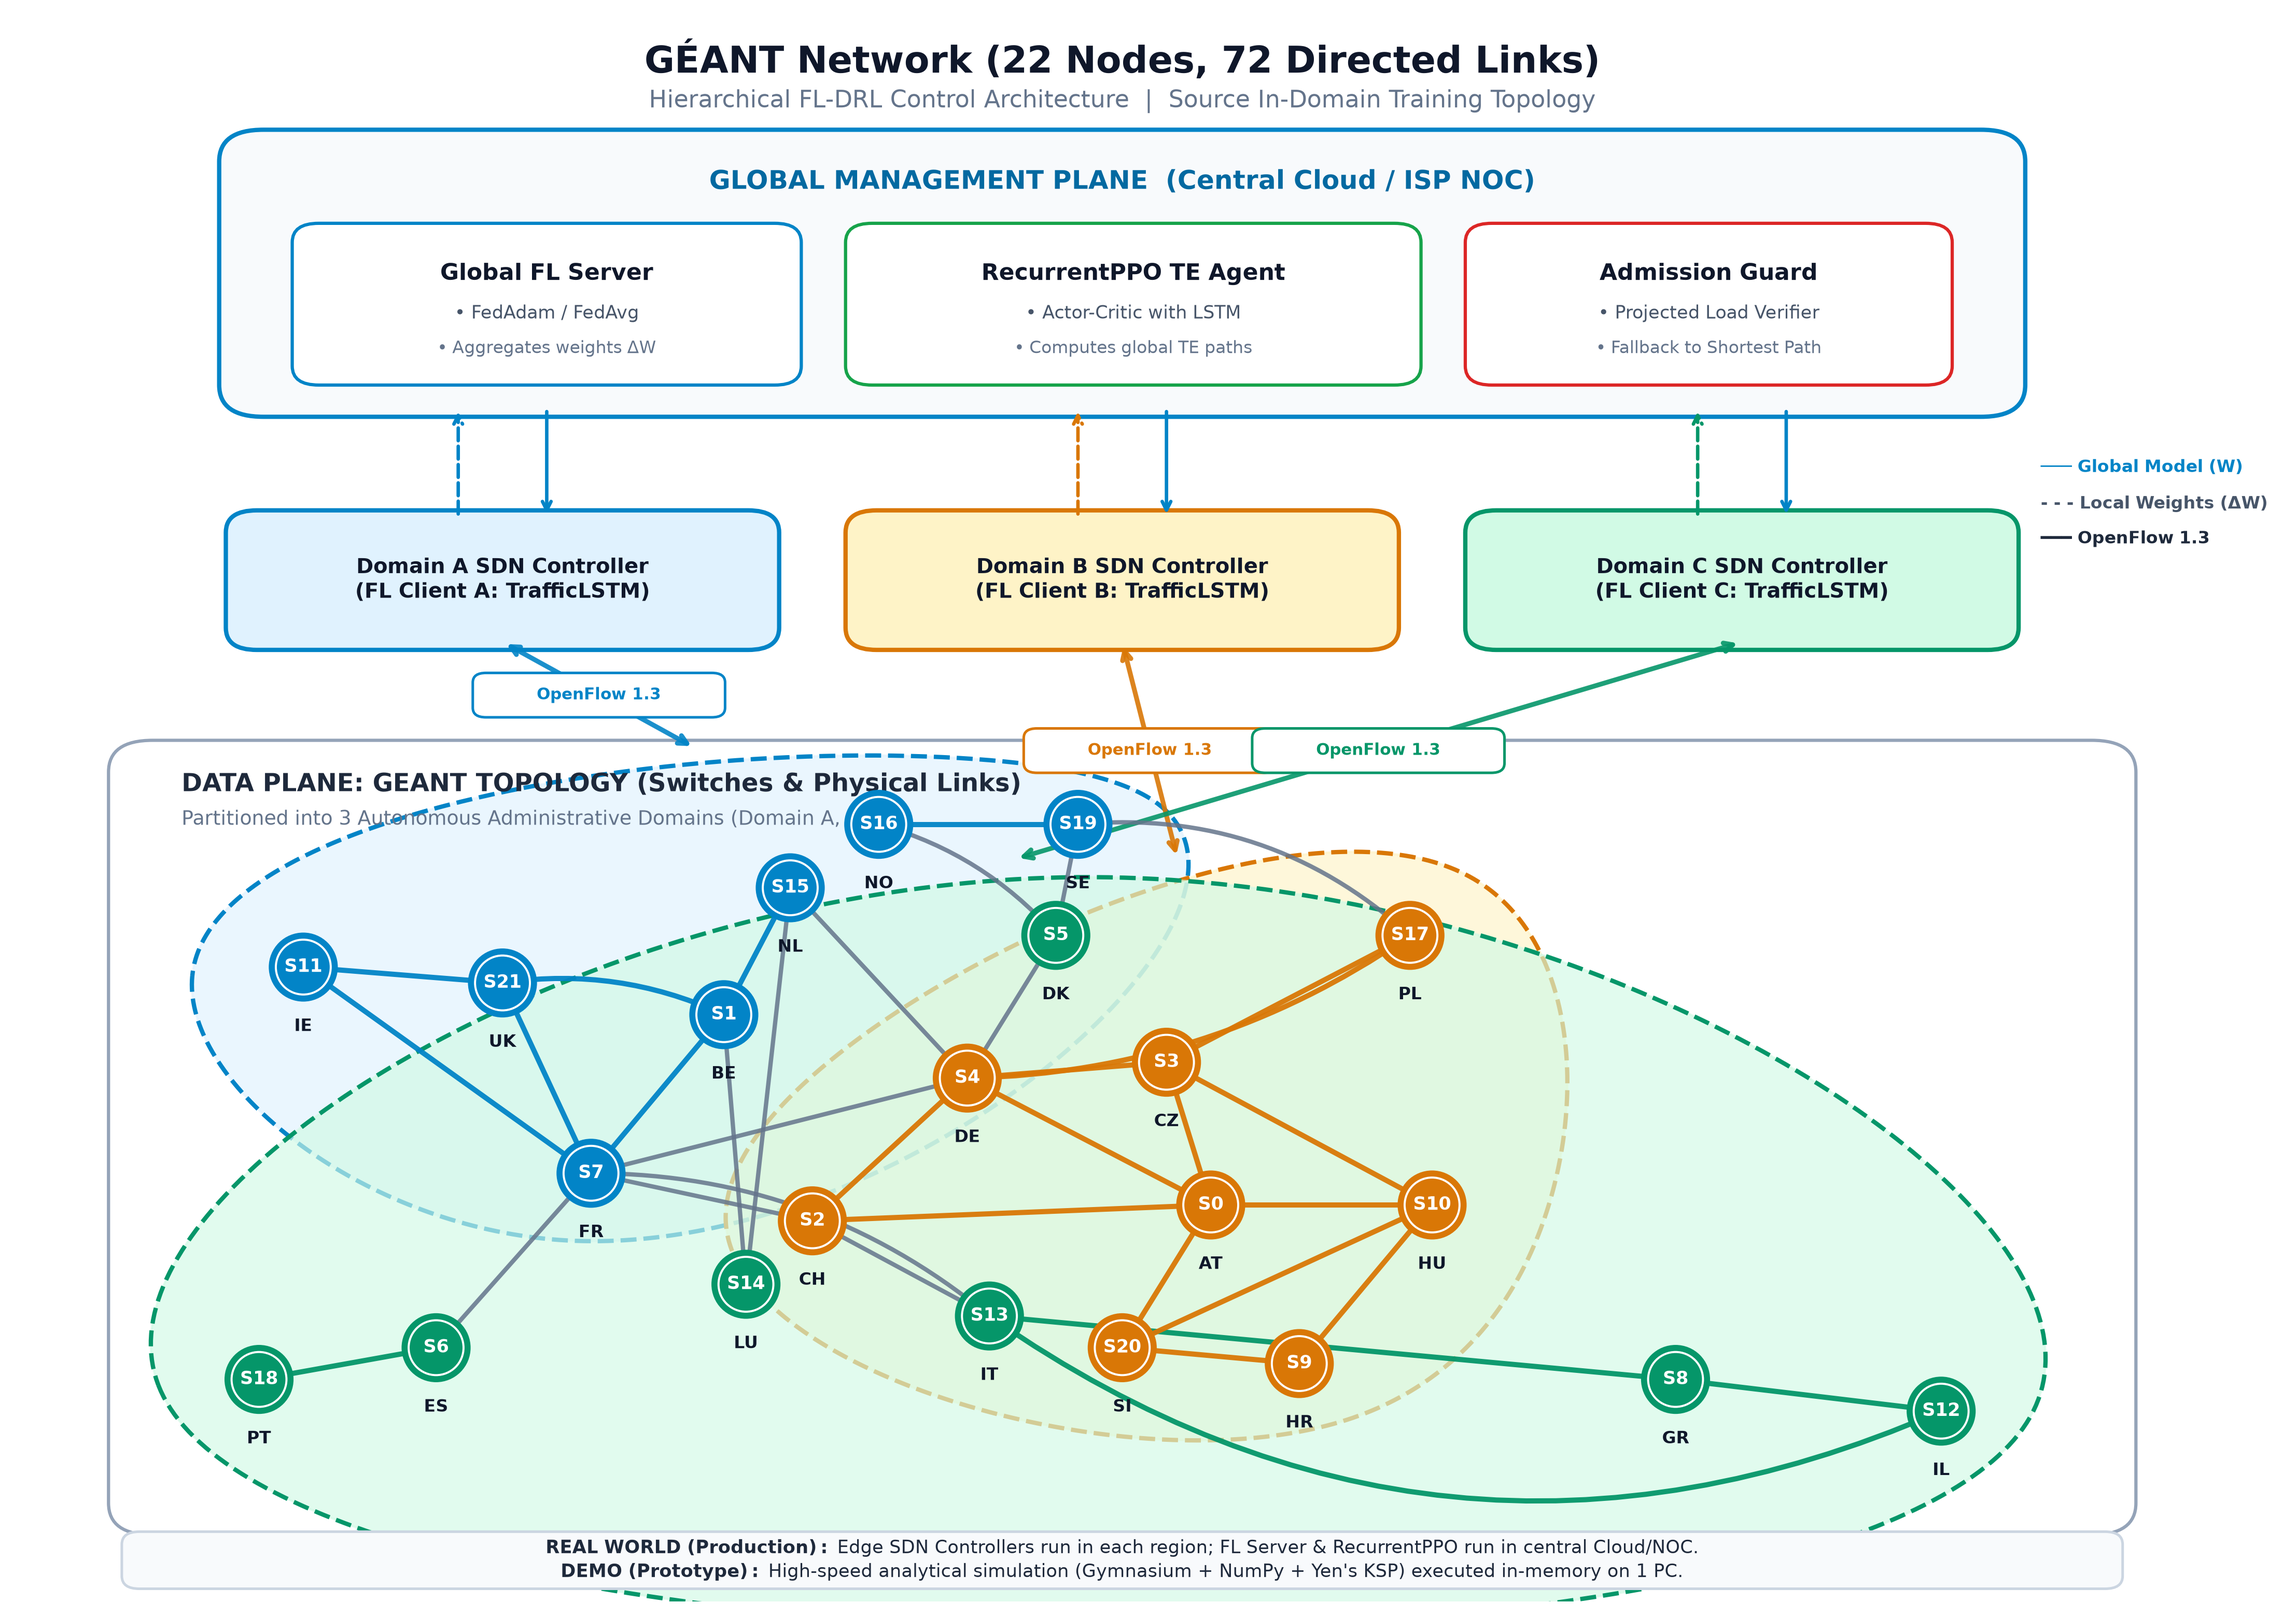
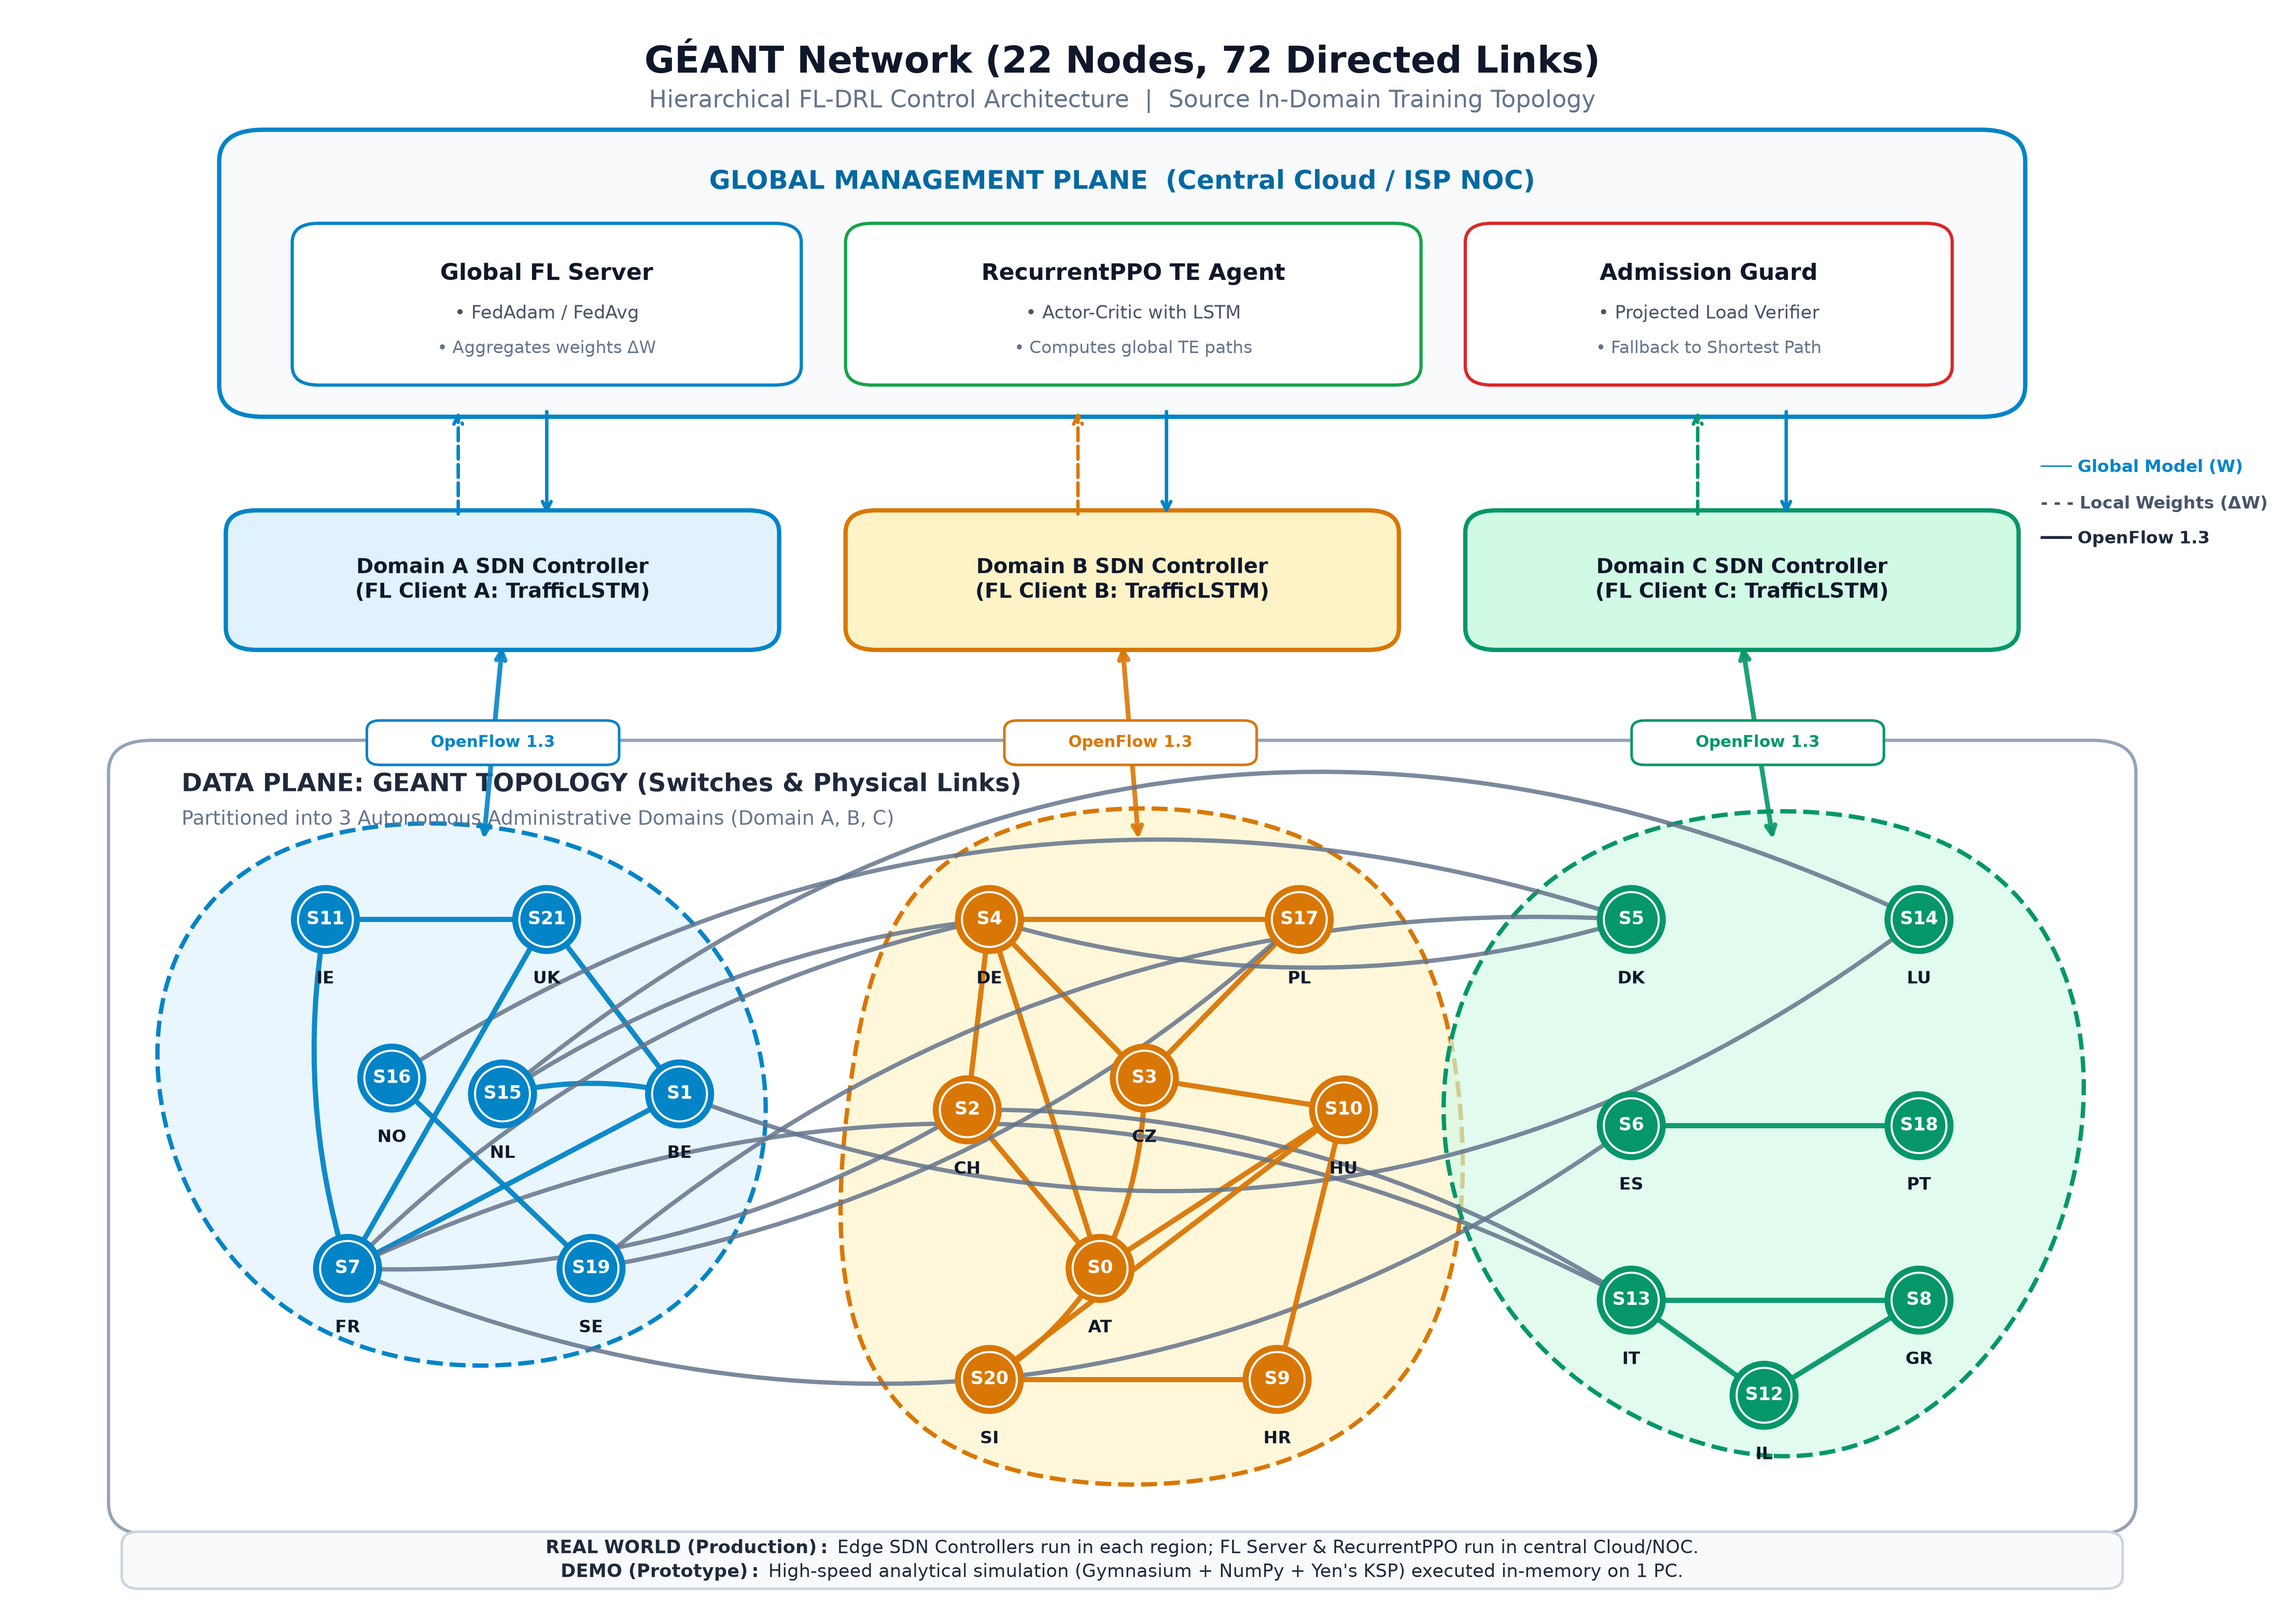
Fix GEANT layout: group 22 nodes into 3 distinct, cohesive, non-overlapping regional clusters

Changed region(s): [[0.0622, 0.4042, 0.9335, 0.9949]]

diff --git a/scratch/generate_topology_diagrams_v3.py b/scratch/generate_topology_diagrams_v3.py
@@ -80,39 +80,62 @@ ABILENE_CURVATURES = {
     (1, 4): -0.15,   # ATLA <---> HSTN: curves gently along the south
 }
 
-# GÉANT (22 nodes)
+# GÉANT (22 nodes) - Clustered into 3 clean, balanced, non-overlapping regional domains:
+# Cluster A (North-West Europe on Left), Cluster B (Central Europe in Center), Cluster C (South/Peripheral on Right)
 GEANT_COORDS = {
-    11: (13, 40),  # IE
-    21: (22, 39),  # UK
-    7: (26, 27),   # FR
-    1: (32, 37),   # BE
-    15: (35, 45),  # NL
-    16: (39, 49),  # NO
-    19: (48, 49),  # SE
-    4: (43, 33),   # DE
-    2: (36, 24),   # CH
-    3: (52, 34),   # CZ
-    0: (54, 25),   # AT
-    17: (63, 42),  # PL
-    10: (64, 25),  # HU
-    20: (50, 16),  # SI
-    9: (58, 15),   # HR
-    18: (11, 14),  # PT
-    6: (19, 16),   # ES
-    14: (33, 20),  # LU
-    13: (44, 18),  # IT
-    5: (47, 42),   # DK
-    8: (75, 14),   # GR
-    12: (87, 12),  # IL
+    # Domain A (Left: x in [13, 31])
+    11: (14, 43),  # IE
+    21: (24, 43),  # UK
+    1: (30, 32),   # BE
+    15: (22, 32),  # NL
+    7: (15, 21),   # FR
+    16: (17, 33),  # NO
+    19: (26, 21),  # SE
+    
+    # Domain B (Center: x in [42, 62])
+    4: (44, 43),   # DE
+    17: (58, 43),  # PL
+    3: (51, 33),   # CZ
+    2: (43, 31),   # CH
+    10: (60, 31),  # HU
+    0: (49, 21),   # AT
+    20: (44, 14),  # SI
+    9: (57, 14),   # HR
+    
+    # Domain C (Right: x in [71, 89])
+    5: (73, 43),   # DK
+    14: (86, 43),  # LU
+    6: (73, 30),   # ES
+    18: (86, 30),  # PT
+    13: (73, 19),  # IT
+    8: (86, 19),   # GR
+    12: (79, 13),  # IL
 }
 
 GEANT_CURVATURES = {
-    (12, 13): -0.28,  # IL <---> IT: curves across the Mediterranean
-    (17, 19): 0.22,   # PL <---> SE: curves over the Baltic
-    (1, 21): 0.15,    # BE <---> UK: curves over the North Sea
-    (7, 13): -0.18,   # FR <---> IT: curves south of Alps
-    (4, 17): 0.15,    # DE <---> PL: slight curve
-    (5, 16): 0.15,    # DK <---> NO: curves over water
+    # Intra-cluster curvatures to ensure clean clearance
+    (0, 3): 0.12,     # AT <-> CZ
+    (0, 20): -0.12,   # AT <-> SI
+    (11, 7): -0.12,   # IE <-> FR
+    (1, 15): 0.12,    # BE <-> NL
+    
+    # Cluster A <-> Cluster B
+    (7, 2): -0.15,    # FR <-> CH
+    (7, 4): 0.15,     # FR <-> DE
+    (15, 4): 0.12,    # NL <-> DE
+    (19, 17): -0.15,  # SE <-> PL
+    
+    # Cluster A <-> Cluster C (Arched over/under Central Cluster B)
+    (1, 14): 0.28,    # BE <-> LU: curves over the top of Cluster B
+    (15, 14): 0.32,   # NL <-> LU: curves over the top of Cluster B
+    (16, 5): 0.24,    # NO <-> DK: curves over the top of Cluster B
+    (19, 5): 0.20,    # SE <-> DK: curves over the top of Cluster B
+    (7, 6): -0.28,    # FR <-> ES: curves under the bottom of Cluster B
+    (7, 13): -0.25,   # FR <-> IT: curves under the bottom of Cluster B
+    
+    # Cluster B <-> Cluster C
+    (4, 5): 0.15,     # DE <-> DK
+    (2, 13): -0.15,   # CH <-> IT
 }
 
 # =============================================================================
